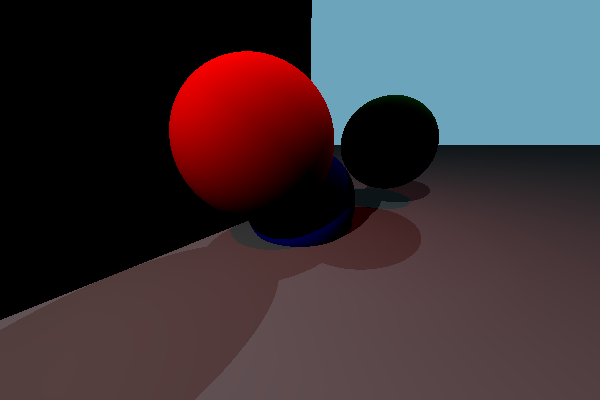
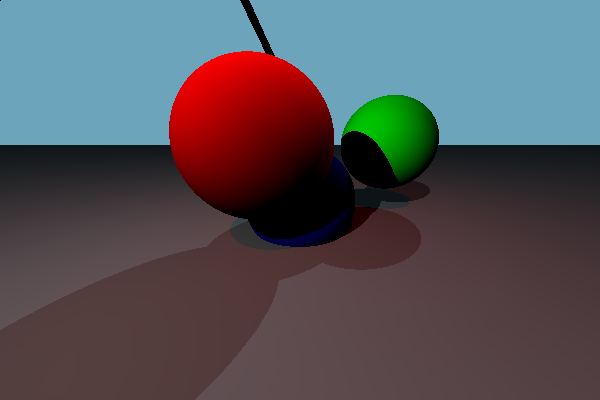
better inside outside check

Changed region(s): [[0.0, 0.0, 0.54, 0.81], [0.57, 0.24, 0.75, 0.45]]

diff --git a/src/components/triangle.rs b/src/components/triangle.rs
@@ -64,13 +64,21 @@ impl Intersectable for Triangle {
             let t = -(self.normal.dot(&ray.origin) + d) / self.normal.dot(&ray.direction);
             let intersection = ray.origin + t * ray.direction;
             let inside = {
-                let dot1 = self.normal;
-                let dot2 = {
-                    let x = self.coordinates[1] - self.coordinates[0];
-                    let y = intersection - self.coordinates[0];
-                    x.cross(&y)
-                };
-                dot1.dot(&dot2) >= 0.0
+                let edge0 = self.coordinates[1] - self.coordinates[0];
+                let edge1 = self.coordinates[2] - self.coordinates[0];
+                let edge2 = self.coordinates[0] - self.coordinates[2];
+                let c0 = intersection - self.coordinates[0];
+                let c1 = intersection - self.coordinates[1];
+                let c2 = intersection - self.coordinates[2];
+                if 
+                    self.normal.dot(&(edge0.cross(&c0))) >0.0 &&
+                    self.normal.dot(&(edge1.cross(&c1))) >0.0 &&
+                    self.normal.dot(&(edge2.cross(&c2))) >0.0 {
+                        true
+                    }
+                    else {
+                        false
+                    }
             };
             if t >= 0.0 && inside {
                 return Some(
